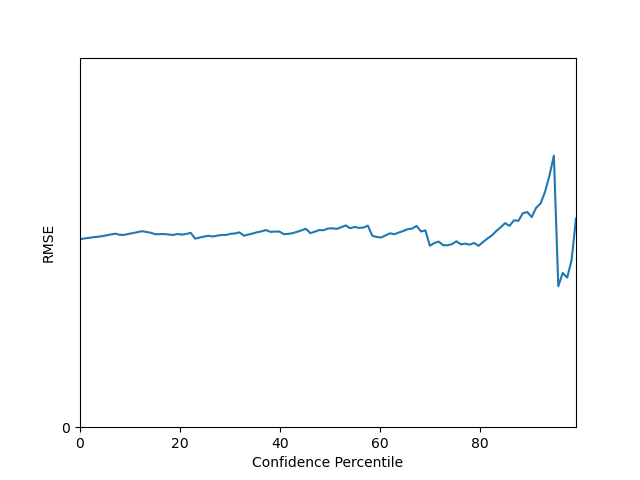
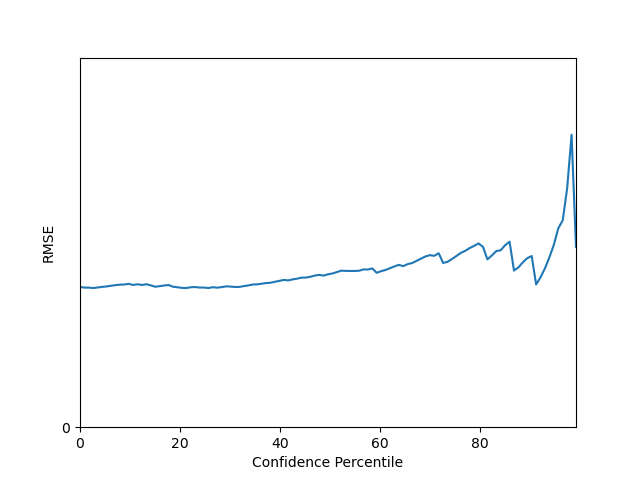
added graphkit learn

diff --git a/GP/kernels.py b/GP/kernels.py
@@ -12,6 +12,189 @@ import numpy as np
 from tensorflow_probability import bijectors as tfb
 from pysmiles import read_smiles
 import time
+from rdkit import Chem
+from grakel.kernels import RandomWalk
+import grakel
+from gklearn.kernels import PathUpToH, ShortestPath
+import multiprocessing
+
+
+
+
+def wiener_index(m):
+    res = 0
+    amat = Chem.rdmolops.GetDistanceMatrix(m)
+    for i in range(m.GetNumAtoms()):
+        for j in range(i + 1, m.GetNumAtoms()):
+            res += amat[i][j]
+    return res
+
+class gklearntest(gpflow.kernels.Kernel):
+    def __init__(self):
+        super().__init__()
+        self.variance = gpflow.Parameter(1.0, transform=positive())
+
+    def K(self, X, X2=None):
+
+        G1 = []
+        if str(type(X[1])) == "<class 'numpy.ndarray'>":
+            for string1 in X:
+                h = string1.decode("utf-8")
+                G1.append(read_smiles(h))
+        else:
+            X = X.numpy()
+            for string1 in X:
+                h = string1.decode("utf-8")
+                G1.append(read_smiles(h))
+
+        if X2 is None:
+            G2 = G1
+
+        else:
+            G2 = []
+            if str(type(X2[1])) == "<class 'numpy.ndarray'>":
+                for string2 in X2:
+                    h = string2.decode("utf-8")
+                    G2.append(read_smiles(h))
+
+            elif str(type(X2[1])) == "<class \'numpy.str_\'>":
+                for string2 in X2:
+                    G2.append(read_smiles(string2))
+
+            else:
+                X2 = X2.numpy()
+                for string2 in X2:
+                    h = string2.decode("utf-8")
+                    G2.append((read_smiles(h)))
+
+        kernel_options = {'directed': False, 'depth': 3, 'k_func': 'MinMax', 'compute_method': 'trie'}
+        graph_kernel = PathUpToH(node_labels=[], edge_labels=[], **kernel_options,)
+        kernel = []
+        for i in range(len(G1)):
+            kernel_list, run_time = graph_kernel.compute(G1, G2[i], parallel='imap_unordered', n_jobs=multiprocessing.cpu_count(), verbose=2)
+            print(kernel_list)
+            kernel.append(kernel_list)
+
+        kernel = tf.convert_to_tensor(kernel)
+
+        return self.variance * kernel
+
+    def K_diag(self, X):
+        return tf.fill((tf.shape(X)), tf.squeeze(self.variance))
+
+
+class GrakelSP(gpflow.kernels.Kernel):
+    def __init__(self):
+        super().__init__()
+        self.variance = gpflow.Parameter(1.0, transform=positive())
+
+    def K(self, X, X2=None):
+
+        G1 = []
+        if str(type(X[1])) == "<class 'numpy.ndarray'>":
+            for string1 in X:
+                h = string1.decode("utf-8")
+                G1.append(read_smiles(h))
+        else:
+            X = X.numpy()
+            for string1 in X:
+                h = string1.decode("utf-8")
+                G1.append(read_smiles(h))
+
+        if X2 is None:
+            G2 = G1
+
+        else:
+            G2 = []
+            if str(type(X2[1])) == "<class 'numpy.ndarray'>":
+                for string2 in X2:
+                    h = string2.decode("utf-8")
+                    G2.append(read_smiles(h))
+
+            elif str(type(X2[1])) == "<class \'numpy.str_\'>":
+                for string2 in X2:
+                    G2.append(read_smiles(string2))
+
+            else:
+                X2 = X2.numpy()
+                for string2 in X2:
+                    h = string2.decode("utf-8")
+                    G2.append((read_smiles(h)))
+
+        sp_kernel = RandomWalk(normalize=True)
+
+        G1 = grakel.graph_from_networkx(G1)
+        G2 = grakel.graph_from_networkx(G2)
+
+        print("hello")
+        start_time1 = time.time()
+
+        K_train = sp_kernel.fit_transform(G1)
+
+        print("hello2, time=" , time.time() - start_time1)
+
+        if X2 is None:
+            kernel = K_train
+
+        else:
+            print("hello3")
+            start_time2 = time.time()
+            kernel = sp_kernel.transform(G2)
+            print("hello4, time=" , time.time() - start_time2)
+
+        kernel = tf.convert_to_tensor(kernel)
+        print("shape is" , tf.shape(kernel))
+
+        return self.variance * kernel
+
+    def K_diag(self, X):
+        return tf.fill((tf.shape(X)), tf.squeeze(self.variance))
+
+
+class RDKit_Shortest_Path(gpflow.kernels.Kernel):
+    def __init__(self):
+        super().__init__()
+        self.variance = gpflow.Parameter(1.0, transform=positive())
+
+
+    def K(self, X, X2=None):
+
+        if X2 is None:
+            X2 = X
+
+        if str(type(X[1])) == "<class 'numpy.ndarray'>":
+            mol = [Chem.MolFromSmiles(smiles) for smiles in X]
+
+        else:
+            mol = [Chem.MolFromSmiles(smiles) for smiles in X.numpy()]
+
+        if X2 is None:
+            mol2 = mol
+
+        else:
+            if str(type(X2[1])) == "<class 'numpy.ndarray'>":
+                mol2 = [Chem.MolFromSmiles(smiles) for smiles in X2]
+
+            elif str(type(X2[1])) == "<class \'numpy.str_\'>":
+                mol2 = [Chem.MolFromSmiles(smiles) for smiles in X2]
+
+            else:
+                mol2 = [Chem.MolFromSmiles(smiles) for smiles in X2.numpy()]
+
+        kernel = np.zeros([len(mol), len(mol2)], dtype=np.float64)
+        for i in range(len(mol)):
+            start = time.time()
+            for j in range(len(mol2)):
+                kernel[i, j] = wiener_index(mol[i]) * wiener_index(mol2[j])
+            print("time for loop", i, time.time() - start)
+
+        kernel = tf.convert_to_tensor(kernel)
+
+
+        return self.variance * kernel
+
+    def K_diag(self, X):
+        return tf.fill((tf.shape(X)), tf.squeeze(self.variance))
 
 class Shortest_Path(gpflow.kernels.Kernel):
     def __init__(self):
@@ -22,6 +205,8 @@ class Shortest_Path(gpflow.kernels.Kernel):
 
         if X2 is None:
             X2 = X
+
+
         ##G1 = []
         ##if str(type(X[1])) == "<class 'numpy.ndarray'>":
         ##for matrix in X:
@@ -84,7 +269,6 @@ class Shortest_Path(gpflow.kernels.Kernel):
 
         kernel = tf.convert_to_tensor(kernel)
 
-        ##kernel = tf.ones([len(G1), len(G2)], dtype=tf.dtypes.float64)
 
         return self.variance * kernel
 

diff --git a/property_prediction/predict_with_shortestpath.py b/property_prediction/predict_with_shortestpath.py
@@ -14,7 +14,8 @@ import numpy as np
 from sklearn.model_selection import train_test_split
 from sklearn.metrics import r2_score, mean_squared_error, mean_absolute_error
 
-from GP.kernels import Shortest_Path
+
+from GP.kernels import RDKit_Shortest_Path, GrakelSP, Shortest_Path, gklearntest
 from property_prediction.data_utils import TaskDataLoader
 
 from gpflow.base import Parameter
@@ -80,7 +81,7 @@ def main(path, task, n_trials, test_set_size, use_rmse_conf):
             X_test = np.asarray(X_test)
 
 
-            k = Shortest_Path()
+            k = gklearntest()
             m = gpflow.models.GPR(data=(X_train, y_train), mean_function=Constant(np.mean(y_train)), kernel=k, noise_variance=1)
 
 
